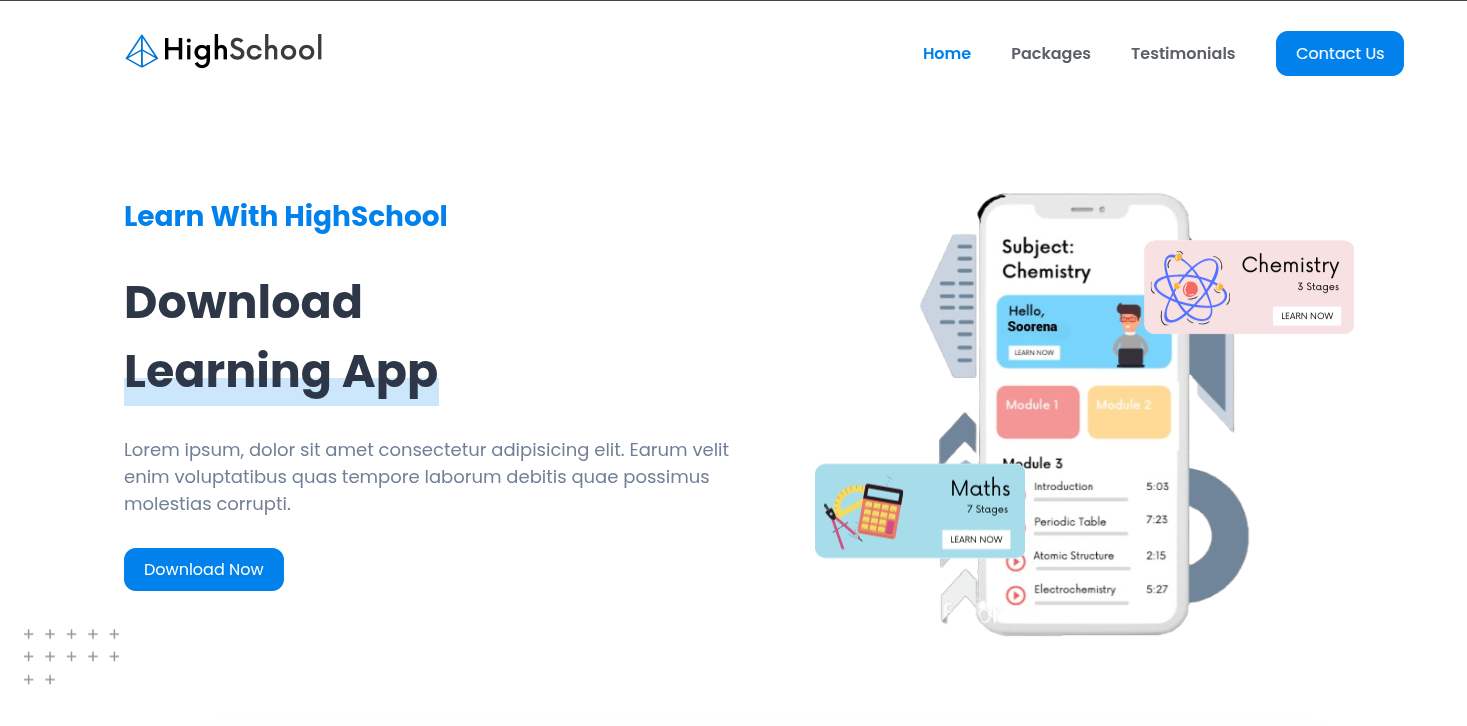
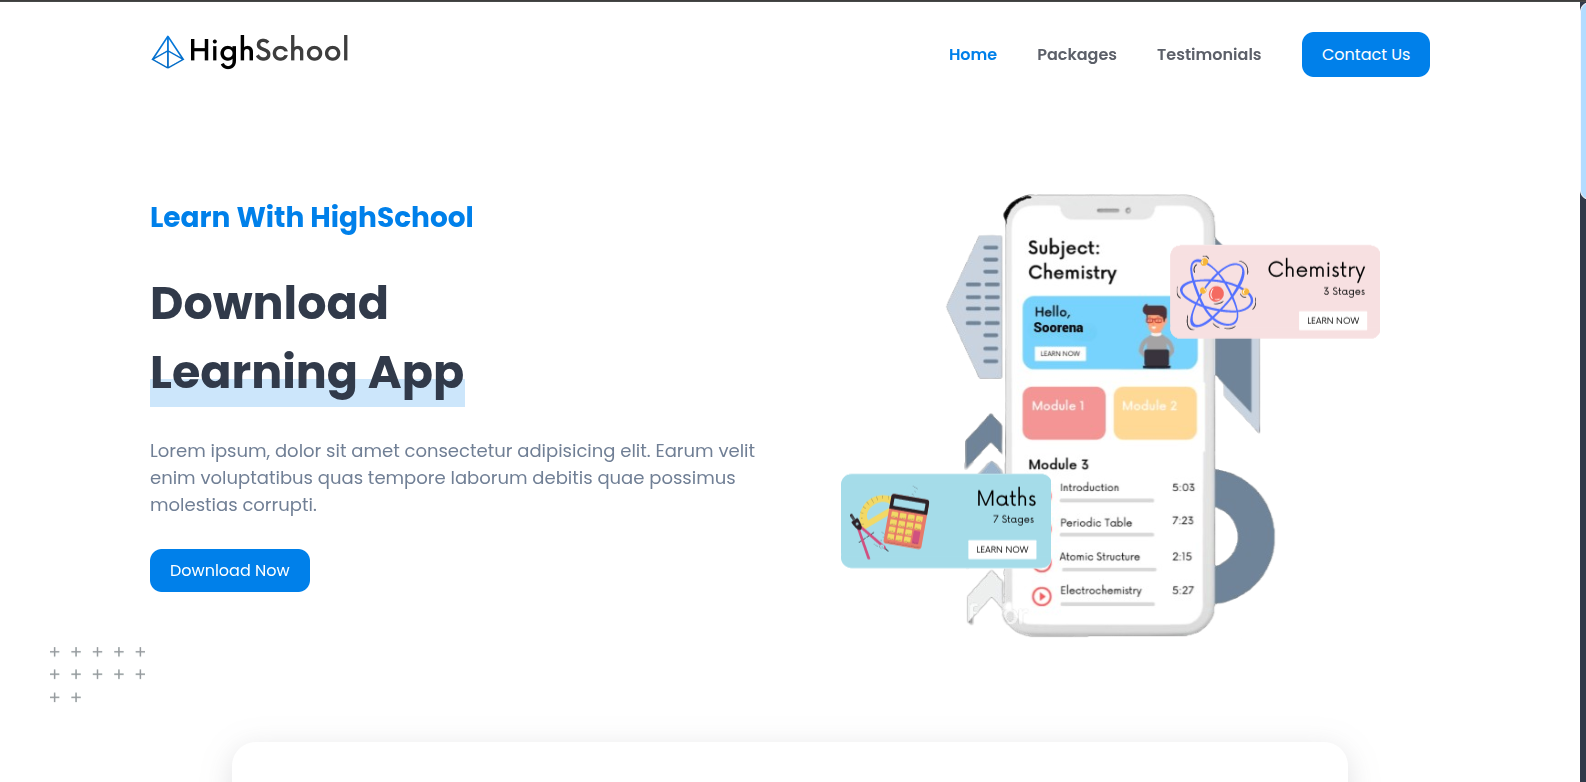
feat: add dynamic project rendering

diff --git a/projects.html b/projects.html
@@ -11,6 +11,8 @@
         integrity="sha384-T3c6CoIi6uLrA9TneNEoa7RxnatzjcDSCmG1MXxSR1GAsXEV/Dwwykc2MPK8M2HN" crossorigin="anonymous">
 
     <link rel="stylesheet" href="./assets/css/style.css">
+
+    <script type="module" src="./assets/js/app.js" defer></script>
 </head>
 
 <body>
@@ -52,183 +54,9 @@
         </section>
 
         <section class="project-1 my-5">
-            <div class="row frontend">
+            <div class="row" id="frontend">
                 <div class="col-12">
                     <h2 class="mb-4"><span>HTML5 , CSS3 and JavaScript</span></h2>
-                </div>
-
-                <div class="col-12">
-                    <div class="card mb-3" style="max-width: 100%;">
-                        <div class="row g-0">
-                            <div class="col-md-4 d-flex align-items-center">
-                                <img src="./assets/images/edtech.png" class="img-fluid rounded-start" alt="...">
-                            </div>
-
-                            <div class="col-md-8">
-                                <div class="card-body">
-                                    <h5 class="card-title">Education Tech Landing Page</h5>
-                                    <p class="card-text">Crafted with precision and purpose, the frontend of this
-                                        Education Tech platform blends intuitive user experience with sleek, modern
-                                        aesthetics. The layout prioritizes accessibility and ease of navigation,
-                                        allowing users to effortlessly explore key features and educational resources.
-                                        Responsive design ensures seamless performance across devices, while strategic
-                                        use of color and typography fosters an engaging, student-friendly atmosphere.
-                                    </p>
-
-                                    <p>Let's see demo or source code!</p>
-                                    <a href="https://edtechlandingpage.soorenadev.ir" target="_blank">
-                                        <button type="button"
-                                            class="btn btn-light border border-secondary border-2">LIVE DEMO
-                                        </button>
-                                    </a>
-                                    <a href="https://github.com/SoorenaZohrabi/edtech-landing-page.git" target="_blank">
-                                        <button type="button" class="btn btn-dark">SOURCE CODE</button>
-                                    </a>
-                                </div>
-                            </div>
-                        </div>
-                    </div>
-                </div>
-
-                <div class="col-12">
-                    <div class="card mb-3" style="max-width: 100%;">
-                        <div class="row g-0">
-                            <div class="col-md-4 d-flex align-items-center">
-                                <img src="./assets/images/spotify.png" class="img-fluid rounded-start" alt="...">
-                            </div>
-
-                            <div class="col-md-8">
-                                <div class="card-body">
-                                    <h5 class="card-title">Spotify Clone</h5>
-
-                                    <p class="card-text">As a demonstration of my front-end development skills, I
-                                        recreated the Spotify main page using only HTML and CSS. This project showcases
-                                        my ability to build clean, responsive layouts and emulate complex design
-                                        elements without relying on JavaScript or external frameworks. From the sleek
-                                        navigation bar to the curated content sections, every detail reflects precision
-                                        and creativity in pure markup and styling. It was a rewarding exercise in UI
-                                        replication and visual fidelity.
-                                    </p>
-                                    <p>Let's see demo or source code!</p>
-
-                                    <a href="https://spotifyclone.soorenadev.ir/" target="_blank">
-                                        <button type="button"
-                                            class="btn btn-light border border-secondary border-2">LIVE DEMO
-                                        </button>
-                                    </a>
-
-                                    <a href="https://github.com/SoorenaZohrabi/spotify-clone.git" target="_blank">
-                                        <button type="button" class="btn btn-dark">SOURCE CODE </button>
-                                    </a>
-                                </div>
-                            </div>
-                        </div>
-                    </div>
-                </div>
-
-                <div class="col-12">
-                    <div class="card mb-3" style="max-width: 100%;">
-                        <div class="row g-0">
-                            <div class="col-md-4 d-flex align-items-center">
-                                <img src="./assets/images/todo.png" class="img-fluid rounded-start" alt="...">
-                            </div>
-
-                            <div class="col-md-8">
-                                <div class="card-body">
-                                    <h5 class="card-title">To Do List</h5>
-
-                                    <p class="card-text">This project is a dynamic and responsive To-Do List application
-                                        designed to help users manage tasks efficiently. Built with HTML for structure,
-                                        SCSS for styling, and JavaScript for interactivity, the app allows users to add,
-                                        delete, and mark tasks as completed. The interface is clean and intuitive,
-                                        thanks to SCSS features like nesting, variables, and mixins, which streamline
-                                        the styling process and make the design more maintainable. The layout adapts to
-                                        different screen sizes, ensuring usability across devices.
-                                    </p>
-                                    <p>Let's see demo or source code!</p>
-
-                                    <a href="https://todo.soorenadev.ir/" target="_blank">
-                                        <button type="button"
-                                            class="btn btn-light border border-secondary border-2">LIVE DEMO
-                                        </button>
-                                    </a>
-
-                                    <a href="https://github.com/SoorenaZohrabi/to-do-list.git" target="_blank">
-                                        <button type="button" class="btn btn-dark">SOURCE CODE </button>
-                                    </a>
-                                </div>
-                            </div>
-                        </div>
-                    </div>
-                </div>
-
-                <div class="col-12">
-                    <div class="card mb-3" style="max-width: 100%;">
-                        <div class="row g-0">
-                            <div class="col-md-4 d-flex align-items-center">
-                                <img src="./assets/images/unconvcal.png" class="img-fluid rounded-start" alt="...">
-                            </div>
-
-                            <div class="col-md-8">
-                                <div class="card-body">
-                                    <h5 class="card-title">The Unconventional Calculator</h5>
-
-                                    <p class="card-text">This JavaScript code powers the core logic of an interactive
-                                        calculator built with HTML, CSS, and JS. It starts by importing external
-                                        functionality from a vendor.js file, which likely handles UI output. The
-                                        calculator maintains a running total (currentResult) and logs every operation in
-                                        an array called logEntries.
-                                    </p>
-                                    <p>Let's see demo or source code!</p>
-
-                                    <a href="https://unconventionalcal.soorenadev.ir/" target="_blank">
-                                        <button type="button"
-                                            class="btn btn-light border border-secondary border-2">LIVE DEMO
-                                        </button>
-                                    </a>
-
-                                    <a href="https://github.com/SoorenaZohrabi/The-Unconventional-Calculator.git"
-                                        target="_blank">
-                                        <button type="button" class="btn btn-dark">SOURCE CODE </button>
-                                    </a>
-                                </div>
-                            </div>
-                        </div>
-                    </div>
-                </div>
-
-                <div class="col-12">
-                    <div class="card mb-3" style="max-width: 100%;">
-                        <div class="row g-0">
-                            <div class="col-md-4 d-flex align-items-center">
-                                <img src="./assets/images/movieplaylist.png" class="img-fluid rounded-start" alt="...">
-                            </div>
-
-                            <div class="col-md-8">
-                                <div class="card-body">
-                                    <h5 class="card-title">Movie Playlist</h5>
-
-                                    <p class="card-text">This JavaScript code forms the backbone of a dynamic movie list
-                                        application, enabling users to add, view, and delete movies through an intuitive
-                                        modal interface. It begins by selecting key DOM elements like modals, buttons,
-                                        input fields, and the movie list container. The app uses an array (movies) to
-                                        store movie objects, each containing an ID, title, image URL, and rating.
-                                    </p>
-                                    <p>Let's see demo or source code!</p>
-
-                                    <a href="https://movieplaylist.soorenadev.ir/" target="_blank">
-                                        <button type="button"
-                                            class="btn btn-light border border-secondary border-2">LIVE DEMO
-                                        </button>
-                                    </a>
-
-                                    <a href="https://github.com/SoorenaZohrabi/movie-playlist.git" target="_blank">
-                                        <button type="button" class="btn btn-dark">SOURCE CODE </button>
-                                    </a>
-                                </div>
-                            </div>
-                        </div>
-                    </div>
                 </div>
             </div>
         </section>

diff --git a/assets/js/data.js b/assets/js/data.js
@@ -1,0 +1,13 @@
+import { Project } from "./project.js";
+
+export const projectsList = [
+    new Project("Bookena", "Bookena is a simple book discovery web application built with Vanilla JavaScript and the Open Library API. The project allows users to search for books, filter and sort results, and browse books through a clean Bootstrap-based interface.", "./assets/images/bookena.png", "https://github.com/SoorenaZohrabi/book-search.git", "https://bookena.soorenadev.ir"),
+    new Project("Monster Killer", "A simple 2D browser-based battle game built with JavaScript and the HTML5 Canvas API. Players fight against a monster using different attack strategies, healing abilities, and inventory items while managing their health and surviving the monster's counterattacks.", "./assets/images/monsterKiller.png", "https://github.com/SoorenaZohrabi/monster-killer.git", "https://monsterkiller.soorenadev.ir"),
+    new Project("Favorite Movies App", "A simple movie management application built with JavaScript that allows users to add, view, and delete their favorite movies through an interactive user interface.", "./assets/images/movieFavorite.png", "https://github.com/SoorenaZohrabi/movie-playlist.git", "https://movieplaylist.soorenadev.ir"),
+    new Project("Rock Paper Scissors Game", "A modern and responsive Rock, Paper, Scissors game built with HTML, Sass, Bootstrap, and JavaScript. This project started as a simple JavaScript practice exercise and was redesigned with a complete UI/UX experience. It focuses on creating an interactive game interface while improving frontend development skills.", "./assets/images/rpsGame.png", "https://github.com/SoorenaZohrabi/rock-paper-scissors.git", "https://rpsgame.soorenadev.ir"),
+    new Project("To-Do List App", "A responsive to-do list application built with HTML, Sass, and JavaScript that allows users to create, manage, and organize tasks with persistent client-side storage using IndexedDB.", "./assets/images/todo.png", "https://github.com/SoorenaZohrabi/to-do-list.git", "https://todo.soorenadev.ir"),
+    new Project("Unconventional Calculator", "A simple calculator application built with JavaScript to practice DOM manipulation, event handling, functions, and basic arithmetic operations.", "./assets/images/unCal.png", "https://github.com/SoorenaZohrabi/the-unconventional-calculator.git", "https://unconventionalcal.soorenadev.ir"),
+    new Project("Expense Tracker", "A simple expense tracker built with Vanilla JavaScript, Bootstrap, and SCSS.", "./assets/images/expenseTracker.png", "https://github.com/SoorenaZohrabi/mini-expense-tracker.git", "https://soorenazohrabi.github.io/Mini-Expense-Tracker/"),
+    new Project("Education Tech Landing Page", "A modern and responsive landing page for an online learning platform built with HTML, CSS, and JavaScript.", "./assets/images/edtech.png", "https://github.com/SoorenaZohrabi/edtech-landing-page.git", "https://edtechlandingpage.soorenadev.ir"),
+    new Project("Spotify Landing Page Clone", "A responsive Spotify landing page clone built with HTML and CSS to practice creating modern, responsive website layouts.", "./assets/images/spotifyClone.png", "https://github.com/SoorenaZohrabi/spotify-clone.git", "https://spotifyclone.soorenadev.ir")
+];

diff --git a/assets/js/render.js b/assets/js/render.js
@@ -1,0 +1,65 @@
+const projectsContainer = document.getElementById("frontend");
+
+export function renderProjects(projects) {
+    projects.forEach(project => {
+        projectsContainer.innerHTML += `
+            <div class="col-12">
+                <div class="card shadow border-0 rounded-4 overflow-hidden mb-4">
+                    <div class="row g-0 align-items-center">
+
+                        <div class="col-md-4 d-flex align-items-center">
+                            <img 
+                                src="${project.imgUrl}" 
+                                class="img-fluid rounded-start"
+                                alt="${project.title}"
+                            >
+                        </div>
+
+                        <div class="col-md-8">
+                            <div class="card-body p-4">
+
+                                <div class="mb-2">
+                                    <span class="badge bg-primary rounded-pill">
+                                        Frontend
+                                    </span>
+                                </div>
+
+                                <h3 class="fw-bold mb-3">
+                                    ${project.title}
+                                </h3>
+
+                                <p class="text-secondary lh-lg">
+                                    ${project.description}
+                                </p>
+
+                                <p class="fw-semibold mb-3">
+                                    Let's see the demo or source code!
+                                </p>
+
+                                <div class="d-flex gap-2 flex-wrap">
+
+                                    <a href="${project.demoUrl}" 
+                                       target="_blank" 
+                                       class="btn btn-outline-primary px-4">
+                                        <i class="bi bi-eye-fill me-1"></i>
+                                        Live Demo
+                                    </a>
+
+                                    <a href="${project.sourceUrl}" 
+                                       target="_blank" 
+                                       class="btn btn-dark px-4">
+                                        <i class="bi bi-github me-1"></i>
+                                        Source Code
+                                    </a>
+
+                                </div>
+
+                            </div>
+                        </div>
+
+                    </div>
+                </div>
+            </div>
+        `;
+    });
+}

diff --git a/assets/css/style.css b/assets/css/style.css
@@ -5,6 +5,14 @@
     font-family: 'Poppins', sans-serif;
 }
 
+.card {
+    transition: transform 0.3s ease, box-shadow 0.3s ease;
+}
+
+.card:hover {
+    transform: translateY(-5px);
+}
+
 a {
     text-decoration: none;
     color: #000000;

diff --git a/assets/js/app.js b/assets/js/app.js
@@ -1,0 +1,4 @@
+import { projectsList } from "./data.js";
+import { renderProjects } from "./render.js";
+
+document.addEventListener("DOMContentLoaded", renderProjects.bind(this, projectsList));
